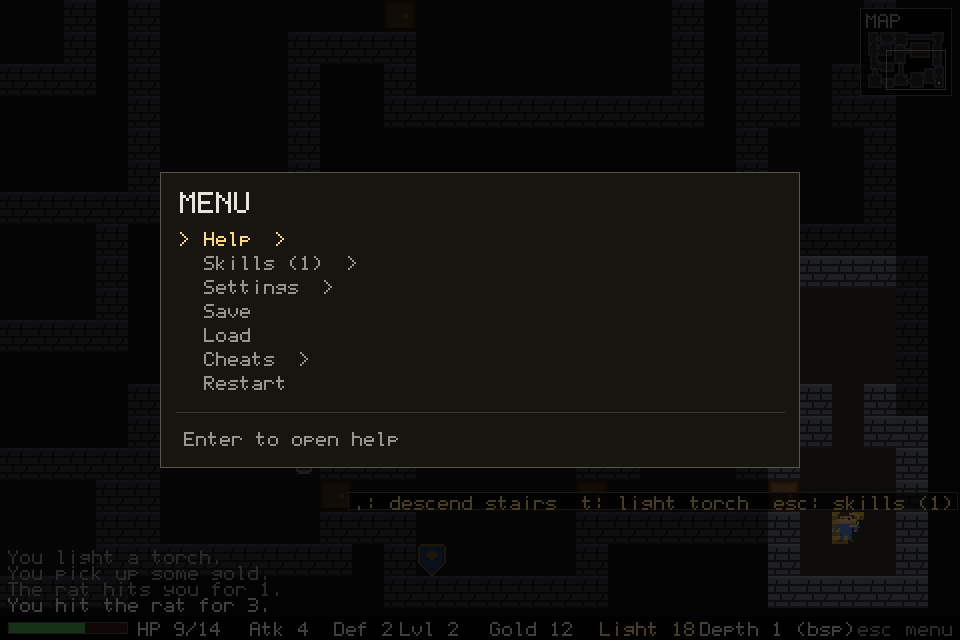
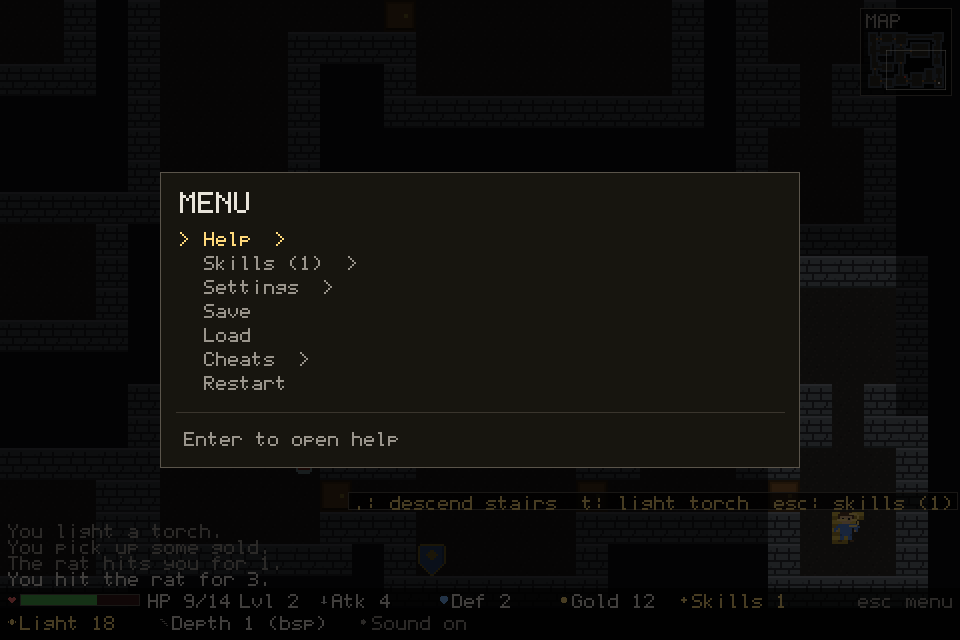
Improve HUD readability

diff --git a/src/ui/hud.ts b/src/ui/hud.ts
@@ -1,9 +1,12 @@
 import { TILE_SIZE } from "../core/tiles.ts";
 import { LOGICAL_H, LOGICAL_W, VIEW_COLS, VIEW_ROWS } from "../core/constants.ts";
 import { drawPixelText, drawPixelTextRight, pixelTextWidth } from "./pixel-font.ts";
-import type { Archetype, Entity } from "../core/entities.ts";
+import { drawIcon } from "./icons.ts";
+import type { Archetype, Entity, Status, StatusKind } from "../core/entities.ts";
 import type { Inventory, ItemKind } from "../core/items.ts";
 import type { MessageLog } from "./menu.ts";
+
+export const HUD_HEIGHT = 52;
 
 export interface HudData {
   player: Entity;
@@ -13,7 +16,8 @@ export interface HudData {
   messages: MessageLog;
   showInventory: boolean;
   lightTurns: number;
-  statusText: string;
+  statuses: Status[];
+  soundLabel: string;
 }
 
 export type HintIcon =
@@ -89,14 +93,33 @@ export function contextualHints(input: ContextualHintInput): ContextualHint[] {
   return hints.slice(0, 4);
 }
 
-export function drawHUD(bctx: CanvasRenderingContext2D, data: HudData): void {
-  bctx.fillStyle = "rgba(0,0,0,0.65)";
-  bctx.fillRect(0, LOGICAL_H - 24, LOGICAL_W, 24);
+export function statusIndicatorColor(kind: StatusKind): string {
+  switch (kind) {
+    case "poison":
+      return "#9be56f";
+    case "bleeding":
+      return "#ff6a6a";
+    case "haste":
+      return "#7ab8ff";
+    case "stun":
+      return "#ffd97a";
+    case "fear":
+      return "#c58fff";
+  }
+}
 
-  const barX = 8;
-  const barY = LOGICAL_H - 18;
+export function drawHUD(bctx: CanvasRenderingContext2D, data: HudData): void {
+  const panelY = LOGICAL_H - HUD_HEIGHT;
+  bctx.fillStyle = "rgba(0,0,0,0.72)";
+  bctx.fillRect(0, panelY, LOGICAL_W, HUD_HEIGHT);
+
+  const row1Y = panelY + 6;
+  const barX = 20;
+  const barY = row1Y;
   const barW = 120;
   const barH = 12;
+
+  drawIcon(bctx, "heart", 8, row1Y + 2, "#ff6a6a");
   bctx.fillStyle = "#3a1a1a";
   bctx.fillRect(barX, barY, barW, barH);
 
@@ -106,33 +129,58 @@ export function drawHUD(bctx: CanvasRenderingContext2D, data: HudData): void {
   bctx.strokeStyle = "#5a544a";
   bctx.strokeRect(barX + 0.5, barY + 0.5, barW, barH);
 
-  const hudY = LOGICAL_H - 18;
+  drawPixelText(bctx, `HP ${data.player.hp}/${data.player.maxHp}`, barX + barW + 8, row1Y, "#e8e4da", 2);
+  drawPixelText(bctx, `Lvl ${data.player.level}`, 240, row1Y, "#e8e4da", 2);
+
+  drawIcon(bctx, "sword", 320, row1Y + 2, "#d8d8d8");
+  drawPixelText(bctx, `Atk ${data.player.atk}`, 332, row1Y, "#e8e4da", 2);
+
+  drawIcon(bctx, "shield", 440, row1Y + 2, "#7ab8ff");
+  drawPixelText(bctx, `Def ${data.player.def}`, 452, row1Y, "#e8e4da", 2);
+
+  drawIcon(bctx, "gold", 560, row1Y + 2, "#ffd97a");
+  drawPixelText(bctx, `Gold ${data.inventory.gold}`, 572, row1Y, "#e8e4da", 2);
+
+  if (data.player.skillPoints > 0) {
+    drawIcon(bctx, "skill", 680, row1Y + 2, "#ffd97a");
+    drawPixelText(bctx, `Skills ${data.player.skillPoints}`, 692, row1Y, "#ffd97a", 2);
+  }
+
+  drawPixelTextRight(bctx, "esc menu", LOGICAL_W - 8, row1Y, "#9a958c", 2);
+
+  const row2Y = panelY + 28;
+  const lightColor = data.lightTurns > 0 ? "#ffd97a" : "#5a544a";
+  drawIcon(bctx, "light", 8, row2Y + 2, lightColor);
   drawPixelText(
     bctx,
-    `HP ${data.player.hp}/${data.player.maxHp}`,
-    barX + barW + 10,
-    hudY,
-    "#e8e4da",
+    data.lightTurns > 0 ? `Light ${data.lightTurns}` : "Light off",
+    20,
+    row2Y,
+    lightColor,
     2,
   );
-  drawPixelText(bctx, `Atk ${data.player.atk}  Def ${data.player.def}`, 250, hudY, "#e8e4da", 2);
-  drawPixelText(bctx, `Lvl ${data.player.level}`, 400, hudY, "#e8e4da", 2);
-  drawPixelText(bctx, `Gold ${data.inventory.gold}`, 490, hudY, "#e8e4da", 2);
-  if (data.lightTurns > 0) {
-    drawPixelText(bctx, `Light ${data.lightTurns}`, 600, hudY, "#ffd97a", 2);
-    drawPixelText(bctx, `Depth ${data.depth} (${data.algorithm})`, 700, hudY, "#e8e4da", 2);
-  } else {
-    drawPixelText(bctx, `Depth ${data.depth} (${data.algorithm})`, 600, hudY, "#e8e4da", 2);
-  }
-  drawPixelTextRight(bctx, "esc menu", LOGICAL_W - 8, hudY, "#9a958c", 2);
 
-  if (data.statusText) {
-    drawPixelText(bctx, data.statusText, 8, LOGICAL_H - 60, "#9be56f", 2);
+  drawIcon(bctx, "depth", 160, row2Y + 2, "#9a958c");
+  drawPixelText(bctx, `Depth ${data.depth} (${data.algorithm})`, 172, row2Y, "#e8e4da", 2);
+
+  const muted = data.soundLabel.startsWith("Muted");
+  drawIcon(bctx, muted ? "mute" : "sound", 360, row2Y + 2, muted ? "#ff6a6a" : "#9a958c");
+  drawPixelText(bctx, data.soundLabel, 372, row2Y, muted ? "#ff6a6a" : "#9a958c", 2);
+
+  let statusX = 520;
+  for (const status of data.statuses) {
+    const color = statusIndicatorColor(status.kind);
+    const text = `${status.kind} ${status.turns}`;
+    if (statusX > LOGICAL_W - 80) break;
+    bctx.fillStyle = color;
+    bctx.fillRect(statusX, row2Y + 2, 8, 8);
+    drawPixelText(bctx, text, statusX + 12, row2Y, color, 2);
+    statusX += 12 + pixelTextWidth(text, 2) + 12;
   }
 
   if (data.showInventory) {
     const inv = `Sword: ${data.inventory.sword ? "+1 ATK" : "-"}   Shield: ${data.inventory.shield ? "+1 DEF" : "-"}   Potions: ${data.inventory.potions}   Torches: ${data.inventory.torches}   Gold: ${data.inventory.gold}   Skill Points: ${data.player.skillPoints}`;
-    drawPixelText(bctx, inv, 8, LOGICAL_H - 42, "#e8e4da", 2);
+    drawPixelText(bctx, inv, 8, panelY - 16, "#e8e4da", 2);
   } else {
     const n = data.messages.length;
     for (let i = 0; i < n; i++) {
@@ -140,7 +188,7 @@ export function drawHUD(bctx: CanvasRenderingContext2D, data: HudData): void {
         bctx,
         data.messages.at(i),
         8,
-        LOGICAL_H - 42 - (n - 1 - i) * 16,
+        panelY - 16 - (n - 1 - i) * 16,
         i === n - 1 ? "#e8e4da" : "#9a958c",
         2,
       );

diff --git a/src/ui/icons.ts b/src/ui/icons.ts
@@ -1,0 +1,137 @@
+export type IconName =
+  | "heart"
+  | "sword"
+  | "shield"
+  | "gold"
+  | "torch"
+  | "light"
+  | "depth"
+  | "sound"
+  | "mute"
+  | "skill"
+  | "item"
+  | "monster"
+  | "door"
+  | "trap"
+  | "potion"
+  | "stairs"
+  | "stairsUp";
+
+export function drawIcon(
+  ctx: CanvasRenderingContext2D,
+  name: IconName,
+  x: number,
+  y: number,
+  color: string,
+): void {
+  ctx.fillStyle = color;
+
+  switch (name) {
+    case "heart":
+      ctx.fillRect(x + 1, y + 1, 2, 2);
+      ctx.fillRect(x + 5, y + 1, 2, 2);
+      ctx.fillRect(x, y + 2, 8, 2);
+      ctx.fillRect(x + 1, y + 4, 6, 1);
+      ctx.fillRect(x + 2, y + 5, 4, 1);
+      ctx.fillRect(x + 3, y + 6, 2, 1);
+      break;
+    case "sword":
+      ctx.fillRect(x + 3, y, 2, 6);
+      ctx.fillRect(x + 1, y + 6, 6, 1);
+      ctx.fillRect(x + 3, y + 7, 2, 1);
+      break;
+    case "shield":
+      ctx.fillRect(x + 1, y, 6, 1);
+      ctx.fillRect(x, y + 1, 8, 4);
+      ctx.fillRect(x + 1, y + 5, 6, 1);
+      ctx.fillRect(x + 2, y + 6, 4, 1);
+      ctx.fillRect(x + 3, y + 7, 2, 1);
+      break;
+    case "gold":
+      ctx.fillRect(x + 2, y + 1, 4, 1);
+      ctx.fillRect(x + 1, y + 2, 6, 4);
+      ctx.fillRect(x + 2, y + 6, 4, 1);
+      break;
+    case "torch":
+      ctx.fillRect(x + 3, y, 2, 1);
+      ctx.fillRect(x + 2, y + 1, 4, 2);
+      ctx.fillRect(x + 3, y + 3, 2, 1);
+      ctx.fillRect(x + 3, y + 4, 2, 4);
+      break;
+    case "light":
+      ctx.fillRect(x + 3, y + 1, 2, 1);
+      ctx.fillRect(x + 2, y + 2, 4, 4);
+      ctx.fillRect(x + 3, y + 6, 2, 1);
+      ctx.fillRect(x, y + 3, 1, 2);
+      ctx.fillRect(x + 7, y + 3, 1, 2);
+      break;
+    case "depth":
+      ctx.fillRect(x, y + 1, 3, 1);
+      ctx.fillRect(x + 2, y + 3, 3, 1);
+      ctx.fillRect(x + 4, y + 5, 3, 1);
+      ctx.fillRect(x + 6, y + 7, 2, 1);
+      break;
+    case "sound":
+      ctx.fillRect(x + 1, y + 2, 2, 4);
+      ctx.fillRect(x + 3, y + 1, 1, 6);
+      ctx.fillRect(x + 4, y + 2, 1, 4);
+      ctx.fillRect(x + 5, y + 3, 1, 2);
+      break;
+    case "mute":
+      ctx.fillRect(x + 1, y + 2, 2, 4);
+      ctx.fillRect(x + 3, y + 1, 1, 6);
+      ctx.fillRect(x + 4, y + 2, 1, 4);
+      ctx.fillRect(x + 5, y + 3, 1, 2);
+      ctx.fillRect(x + 6, y, 1, 8);
+      break;
+    case "skill":
+      ctx.fillRect(x + 3, y + 1, 2, 6);
+      ctx.fillRect(x + 1, y + 3, 6, 2);
+      break;
+    case "item":
+      ctx.fillRect(x + 1, y + 2, 6, 5);
+      ctx.fillRect(x + 3, y, 2, 2);
+      ctx.fillRect(x + 2, y + 4, 4, 1);
+      break;
+    case "monster":
+      ctx.fillRect(x + 1, y + 2, 2, 2);
+      ctx.fillRect(x + 5, y + 2, 2, 2);
+      ctx.fillRect(x + 2, y + 5, 4, 1);
+      break;
+    case "door":
+      ctx.fillRect(x + 1, y, 6, 8);
+      ctx.fillStyle = "#17150f";
+      ctx.fillRect(x + 2, y + 1, 4, 6);
+      ctx.fillStyle = color;
+      ctx.fillRect(x + 5, y + 3, 1, 2);
+      break;
+    case "trap":
+      ctx.fillRect(x + 1, y + 1, 1, 1);
+      ctx.fillRect(x + 2, y + 2, 1, 1);
+      ctx.fillRect(x + 3, y + 3, 2, 2);
+      ctx.fillRect(x + 5, y + 5, 1, 1);
+      ctx.fillRect(x + 6, y + 6, 1, 1);
+      ctx.fillRect(x + 6, y + 1, 1, 1);
+      ctx.fillRect(x + 5, y + 2, 1, 1);
+      ctx.fillRect(x + 2, y + 5, 1, 1);
+      ctx.fillRect(x + 1, y + 6, 1, 1);
+      break;
+    case "potion":
+      ctx.fillRect(x + 3, y, 2, 2);
+      ctx.fillRect(x + 2, y + 2, 4, 1);
+      ctx.fillRect(x + 1, y + 3, 6, 4);
+      break;
+    case "stairs":
+      ctx.fillRect(x, y + 1, 3, 1);
+      ctx.fillRect(x + 2, y + 3, 3, 1);
+      ctx.fillRect(x + 4, y + 5, 3, 1);
+      ctx.fillRect(x + 6, y + 7, 2, 1);
+      break;
+    case "stairsUp":
+      ctx.fillRect(x + 6, y + 1, 2, 1);
+      ctx.fillRect(x + 4, y + 3, 3, 1);
+      ctx.fillRect(x + 2, y + 5, 3, 1);
+      ctx.fillRect(x, y + 7, 3, 1);
+      break;
+  }
+}

diff --git a/tests/ui/hud.test.ts b/tests/ui/hud.test.ts
@@ -1,5 +1,5 @@
 import { describe, expect, it } from "bun:test";
-import { contextualHints } from "../../src/ui/hud.ts";
+import { contextualHints, statusIndicatorColor } from "../../src/ui/hud.ts";
 
 describe("contextual hints", () => {
   it("shows pickup only for pickable items", () => {
@@ -160,5 +160,15 @@ describe("contextual hints", () => {
     expect(hints[0]).toEqual({ text: "g: pick up gold", icon: "item" });
     expect(hints[2]).toEqual({ text: "bump: attack rat", icon: "monster" });
     expect(hints[3]).toEqual({ text: "bump: open door", icon: "door" });
+  });
+});
+
+describe("status indicators", () => {
+  it("uses distinct colors for status kinds", () => {
+    expect(statusIndicatorColor("poison")).toBe("#9be56f");
+    expect(statusIndicatorColor("bleeding")).toBe("#ff6a6a");
+    expect(statusIndicatorColor("haste")).toBe("#7ab8ff");
+    expect(statusIndicatorColor("stun")).toBe("#ffd97a");
+    expect(statusIndicatorColor("fear")).toBe("#c58fff");
   });
 });

diff --git a/src/platform/main.ts b/src/platform/main.ts
@@ -166,7 +166,8 @@ async function main(): Promise<void> {
         messages: game.messages,
         showInventory: game.showInventory,
         lightTurns: game.lightTurns,
-        statusText: game.player.statuses.map((s) => `${s.kind} ${s.turns}`).join("  "),
+        statuses: game.player.statuses,
+        soundLabel: settings.soundEnabled ? "Sound on" : "Sound off",
       });
 
       if (!game.gameOver && !game.menuOpen) {

diff --git a/tools/make-screenshots.ts b/tools/make-screenshots.ts
@@ -113,7 +113,8 @@ function renderGameplay(showMenu: boolean): Buffer {
     messages: game.messages,
     showInventory: game.showInventory,
     lightTurns: game.lightTurns,
-    statusText: game.player.statuses.map((s) => `${s.kind} ${s.turns}`).join("  "),
+    statuses: game.player.statuses,
+    soundLabel: defaultSettings().soundEnabled ? "Sound on" : "Sound off",
   });
 
   if (!game.gameOver && !game.menuOpen) {
